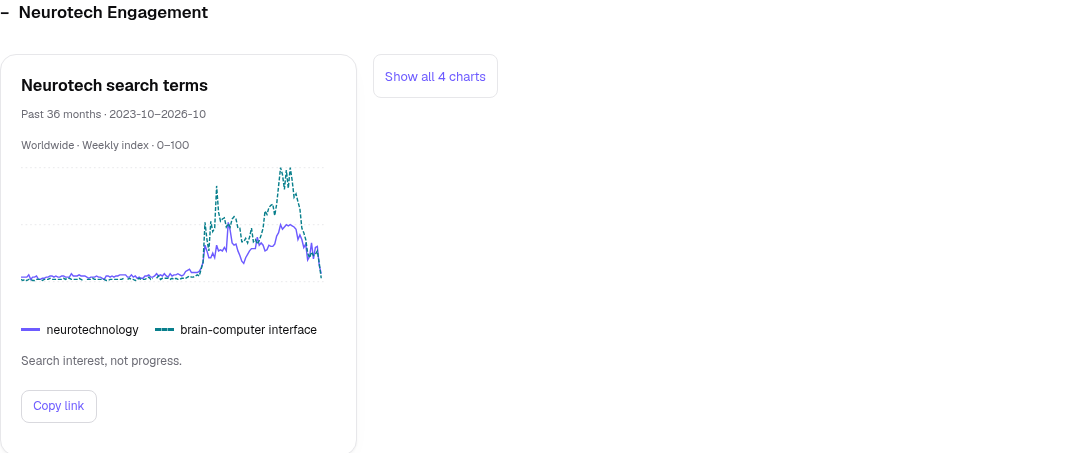
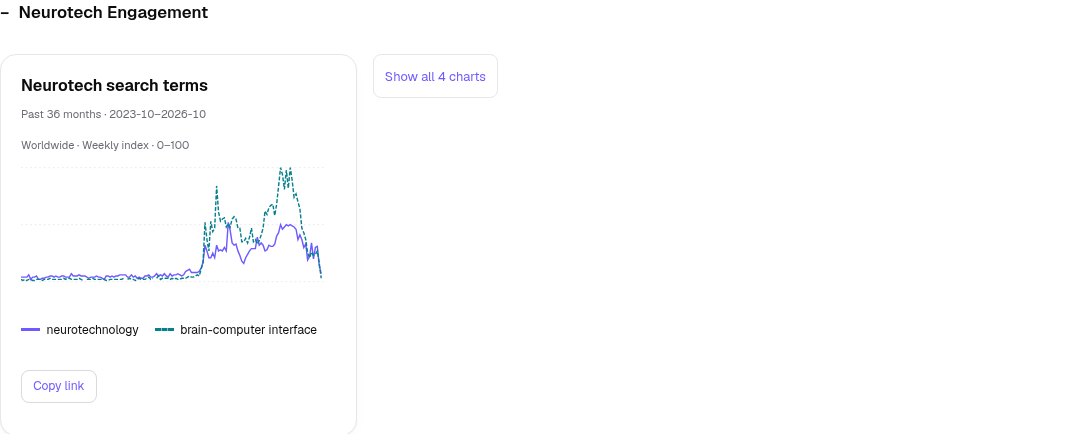
docs: refresh native evidence after review and copy follow-ups

diff --git a/docs/qa/metrics-simplicity/README.md b/docs/qa/metrics-simplicity/README.md
@@ -2,14 +2,14 @@
 
 ## Source and evidence boundary
 
-Candidate runtime: `c884b3a1011caccaf8d395b9376853fb7b0a22d8`. Later evidence-only commits do not change app/data/assets. Baseline: merged main `0af1260c33adbe3a06c7477668102772d1071575`; its application tree equals prior runtime `f929a5938fc9f481936497505555239f2c184c14`, used for the before captures.
+Candidate runtime: `3acdf45532f5a7bf5008d237a91757f72f8eedf7`. Later evidence-only commits do not change app/data/assets. Baseline: merged main `0af1260c33adbe3a06c7477668102772d1071575`; its application tree equals prior runtime `f929a5938fc9f481936497505555239f2c184c14`, used for the before captures.
 
 These are native headed-Chrome captures of local production builds mounted at `/neuro-atlas/field-velocity`, bound exclusively to 127.0.0.1. Only the disposable QA clone substitutes a local proxy fixture; production auth/source are unchanged. They are not positive authenticated hosted verification. The mobile image is a crop of original browser pixels, not a reconstructed UI. Screenshot hashes/dimensions are in `screenshots.json`.
 
 ## What changed
 
-- One top-level methodology/download hint; no repeated subgroup headings, expansion hints, Direct link duplicates, generic source-status eyebrows or group-accounting KPI tiles.
-- The five ordered groups still start with their chosen featured chart. Show all sits beside it on desktop and inserts peer cards into the same grid: three columns on wide screens, two at medium sidebar widths, one on narrow screens.
+- Exact full-state button wording is `show only featured`; the requested search-interest preview slogan is removed. One top-level methodology/download hint; no repeated subgroup headings, expansion hints, Direct link duplicates, generic source-status eyebrows or group-accounting KPI tiles.
+- The five ordered groups still start with their chosen featured chart. Show all sits beside it on desktop, keeps that existing chart in the first slot, and inserts peer cards after it in the same grid: three columns on wide screens, two at medium sidebar widths, one on narrow screens.
 - Each curated numeric panel/timeline is one tile. Context, complete definitions and provenance remain in its modal, not another preview wrapper. Scientific units, dataset scopes and observation-linked ≈/≥/> qualifications remain visible.
 - Source values, curated/raw inventories, aliases, production proxy, package files and lockfile are unchanged. All 85 archived observation objects remain intact; 77 retained curated observations appear in 14 numeric plots, plus the retained timeline and supplemental chart families. Historical cohort context is not counted as a fifth engagement chart.
 
@@ -27,3 +27,9 @@ The initial native pass caught 8.55px reference ticks at 1024px; the medium two-
 ## Existing dependency warnings
 
 The unchanged lockfile's fresh npm audit reports five high entries; two remain with dev dependencies omitted (`source-map-js`, `zod`). This UI-only PR does not upgrade dependencies or claim they are security-clean. Source-data/auth/package invariance is independently checked.
+
+## Independent review corrections
+
+The initial candidate review found F1 (featured chart displaced when expanded) and F2 (two log previews lost explicit scale identification). Featured-first stable ordering now passes at all five widths; Recording hours and Reported resource size explicitly include `· log` in their visible preview axis. Neither correction changes the underlying source observations or restores generic preview status prose. The original and final reviewer receipts are summarized in the PR.
+
+Weekly automatic Trends refresh was requested later and is a separate feed change. This visual PR and these captures do not claim that the data is live yet.
